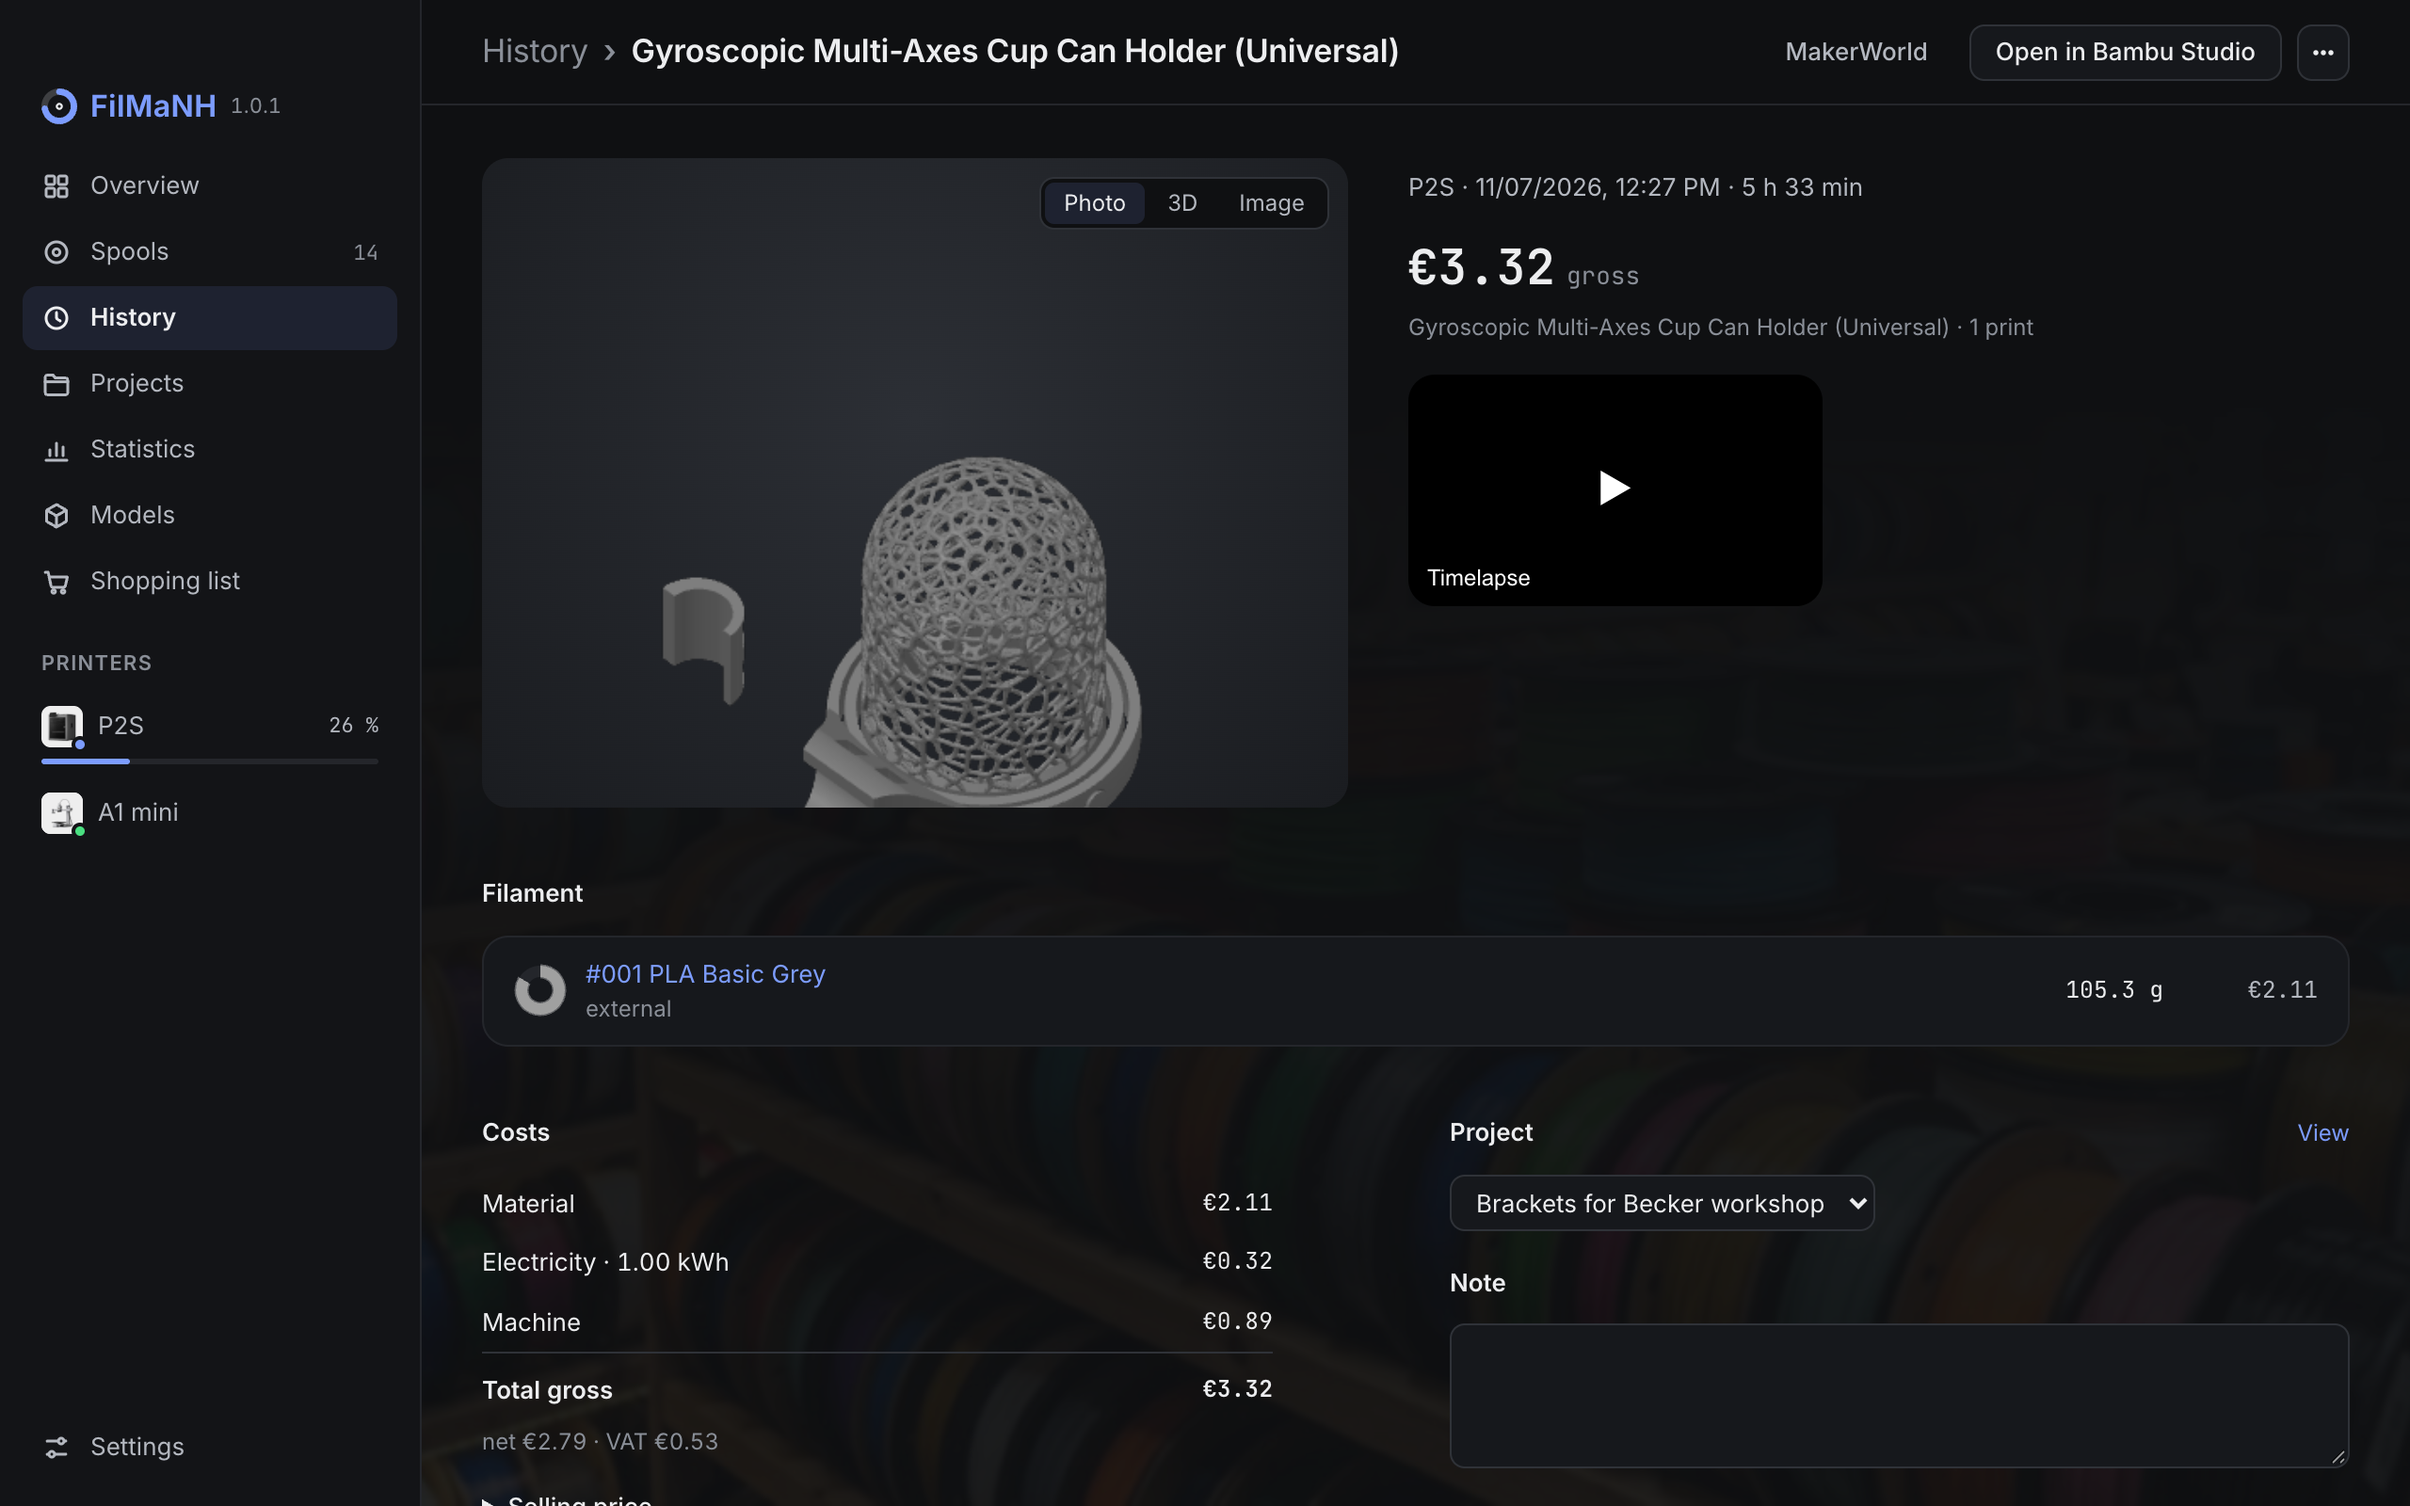
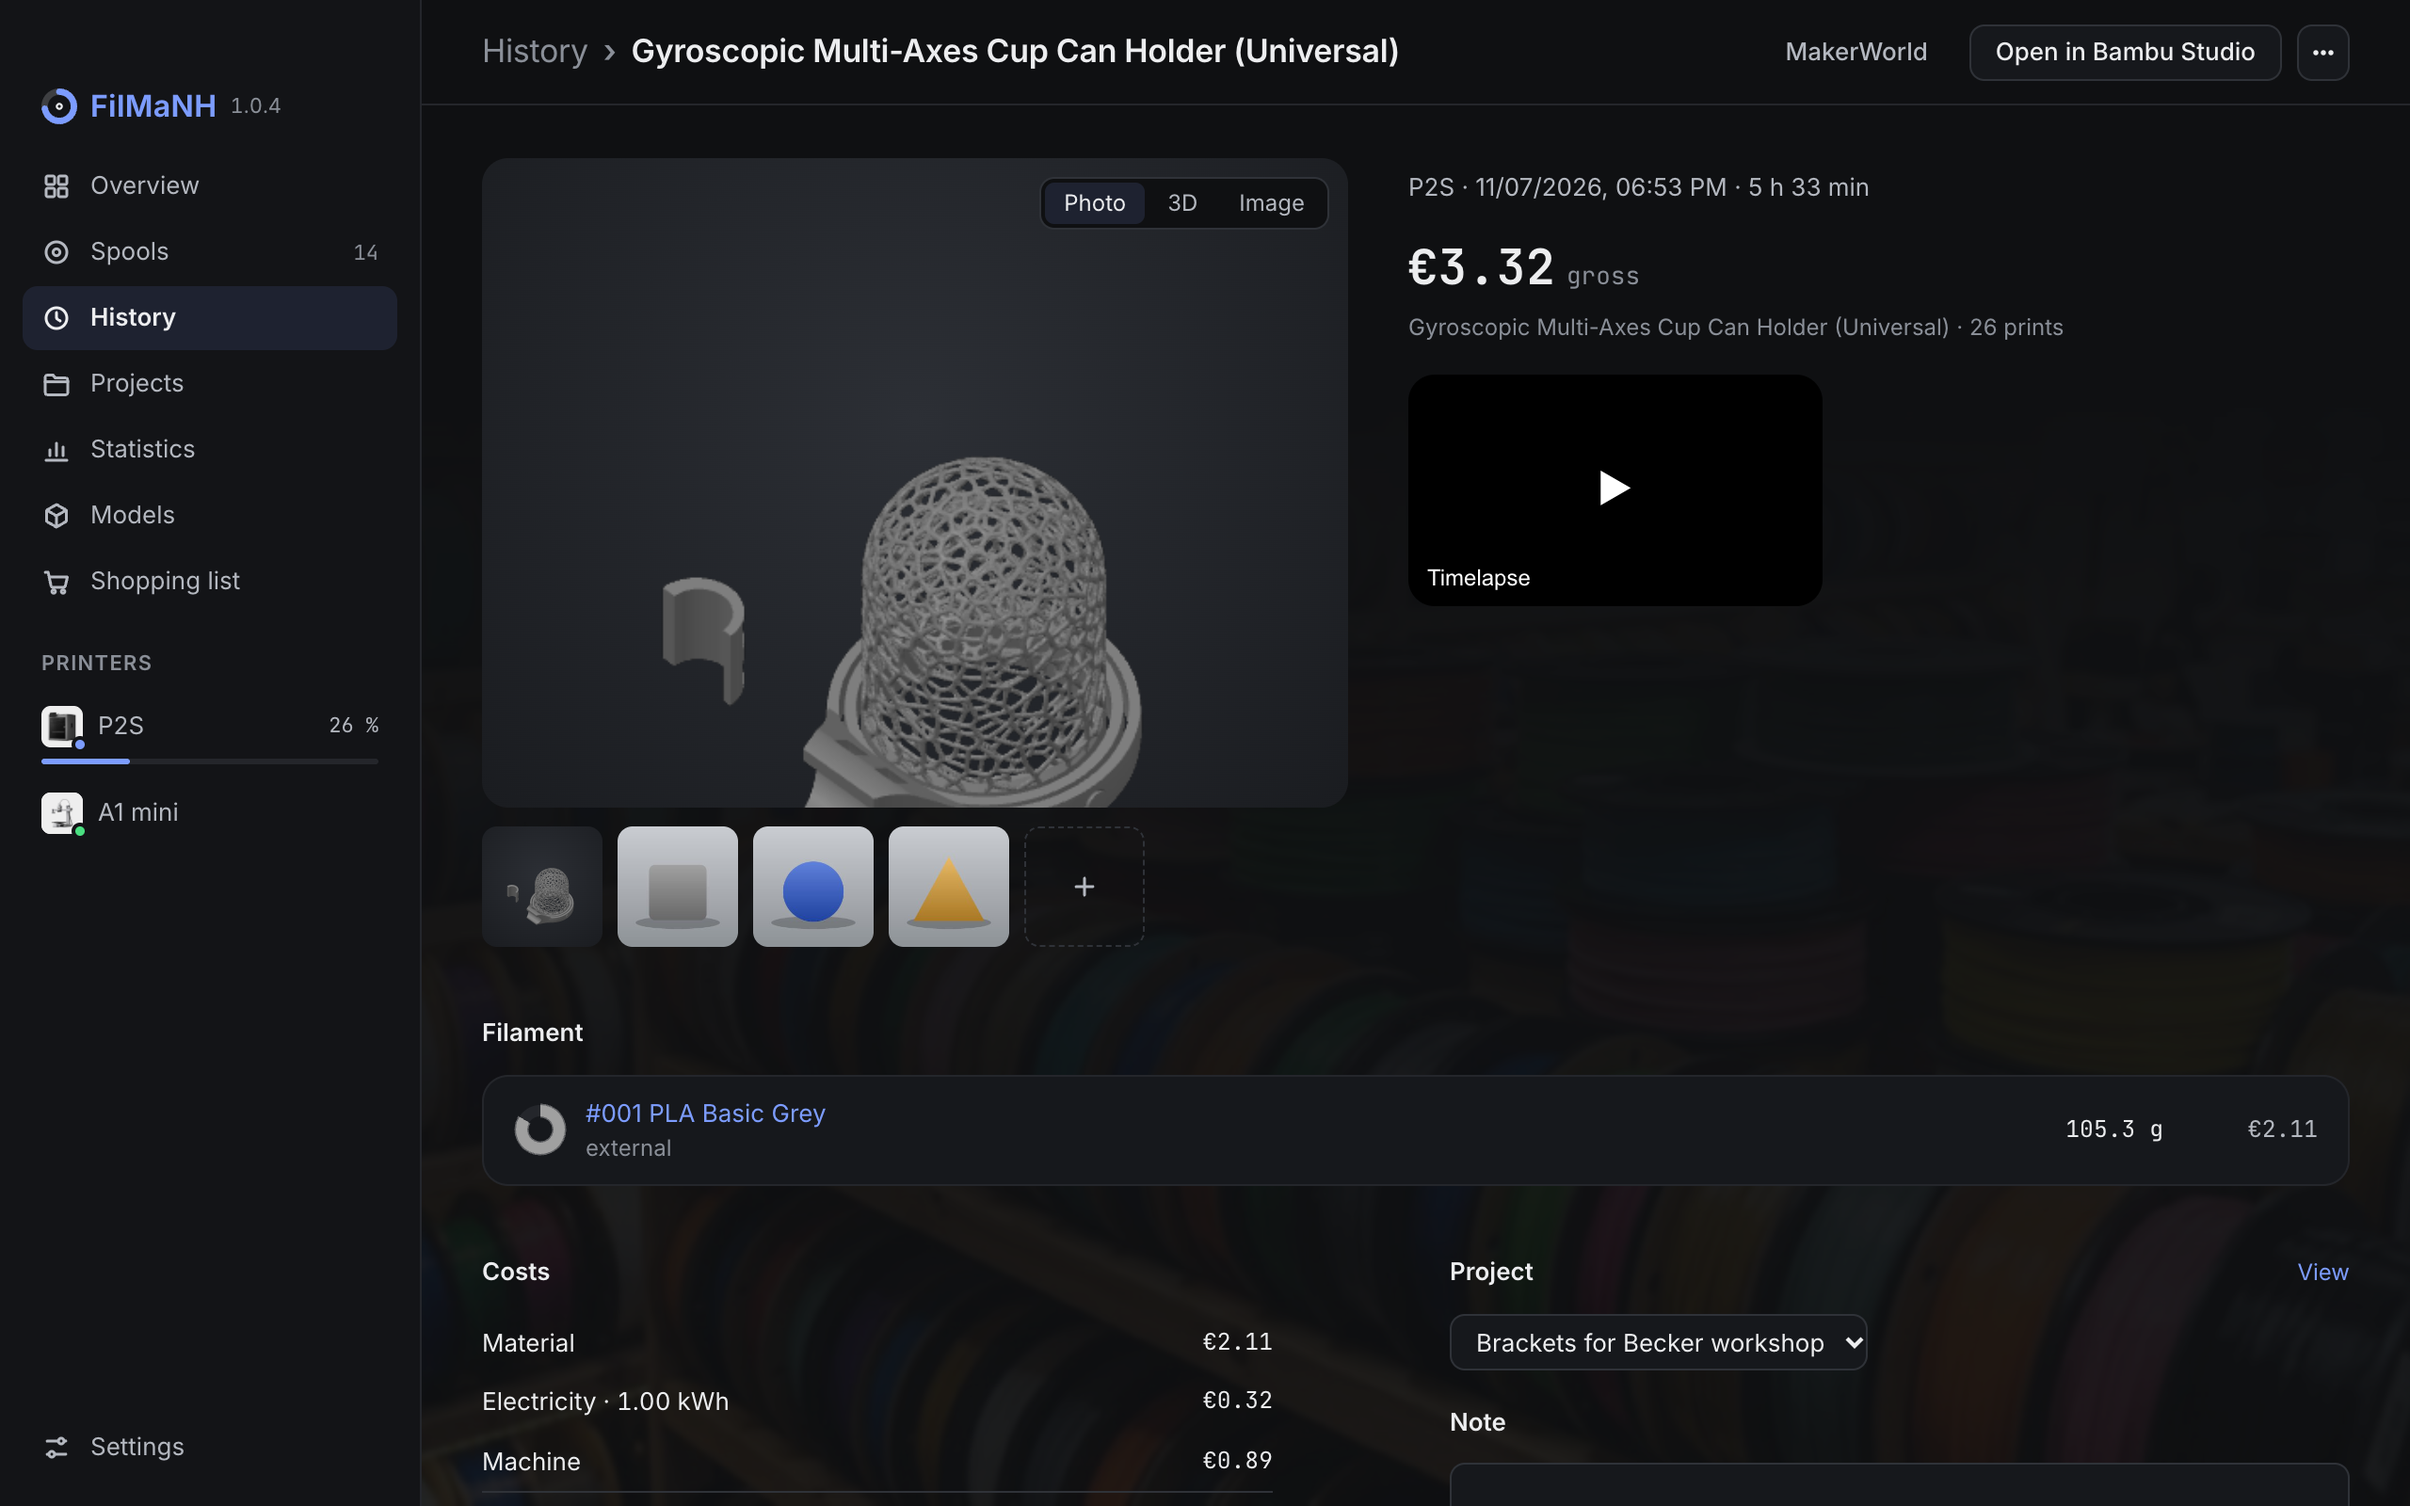
Handbuch für Version 1.0.4

diff --git a/handbook/README.md b/handbook/README.md
@@ -294,7 +294,7 @@ it replaces the preview. Filter by period, result and printer; search; gross or 
 Page through at the bottom, **10**, **25** or **50 per page**.
 
 **Delete:** tick prints (the box above the list selects all on the page), then **Delete** and **Really delete**. The
-entry, print file, photo and timelapse are removed; the usage stays booked on the spools. Running prints cannot be
+entry, print file, photos and timelapse are removed; the usage stays booked on the spools. Running prints cannot be
 deleted.
 
 ### Print details
@@ -302,8 +302,11 @@ deleted.
 ![Print](images/15-druck.png)
 
 - **Photo:** the last frame of the timelapse, if “Timelapse” was switched on when sending the print. Without a
-  timelapse, the last frame of the camera recording, if the printer records during the print (e.g. P2S). If there
-  is neither, you can add your own photo. **3D** (in the spools’ colours) and **Image** show the print file.
+  timelapse, the last frame of the camera recording, if the printer records during the print (e.g. P2S). **3D** (in
+  the spools’ colours) and **Image** show the print file.
+- **Own photos:** below it, as many as you like – with **+** or by dragging images into the window. Without a frame
+  from the timelapse or camera, the first one is shown large. A click opens the large view: **←** **→** to browse,
+  **Esc** closes, **Delete** removes the photo.
 - **Play timelapse.** With **Download timelapses** (Settings › Tracking) it is on your computer after the print;
   otherwise it comes from the printer when you play it. **Save …** keeps a copy; on a Mac an AVI becomes a `.mov`
   that QuickTime plays. If the timelapse was off during the print, this is shown here.
@@ -313,7 +316,7 @@ deleted.
 - **Open in Bambu Studio** opens the kept print file. If the model comes from MakerWorld, a link leads there.
 - **Project:** assign the print to a [project](#9-projects) or create one with **New project …**. **Selling price**
   (expand) calculates the price for this print.
-- **…** menu: Replace photo, **Mark as waste** (part unusable – counts as a failed print in the statistics), Undo
+- **…** menu: **Mark as waste** (part unusable – counts as a failed print in the statistics), Undo
   deduction and, as long as nothing is deducted, **Find print file again**.
 - FilMaNH checks every print file against the print: layer count and the filaments the printer actually uses. An
   older file with the same name is not used.
@@ -343,10 +346,12 @@ one. Prints are added with **Add prints** or in the print under **Project**.
 - **Selling price:** the print costs (material, electricity, machine) plus **Labour** at the hourly rate from
   Settings › Costs, on top of that the **Failed-print surcharge** and then the **Markup** – net, gross and per
   **piece**. The markup applies per project; left empty, the default from the settings applies.
+- **Photos:** the project’s own photos and those of its prints, with a link to the print. **Add photo …** or drag
+  images into the window; a click opens the large view.
 - **CSV** exports the prints, **Print …** an overview as an A4 page with total and selling price (also as PDF in the
   print dialog).
-- **Close** marks the project as closed, **Reopen** undoes that. **Delete project** deletes only the project; the
-  prints stay.
+- **Close** marks the project as closed, **Reopen** undoes that. **Delete project** deletes only the project and its
+  photos; the prints stay.
 
 ## 10. Models
 
@@ -456,7 +461,7 @@ with a QR code to download the Android app. **Hide** removes the hint.
 What the apps can do is described in the handbooks for [iPhone](iphone.md) and [Android](android.md).
 
 **Data:** daily backup (the last 14), export and import of all data, print history as CSV, data folder. Backup and export contain the database: spools, bookings, prints and settings – not
-photos, print files, 3D views, timelapses and source files. Those are in the data folder (`drucke`, `modelle`); copy
+photos, print files, 3D views, timelapses and source files. Those are in the data folder (`drucke`, `fotos`, `modelle`); copy
 it along when moving to another computer. **Import from Spoolman** reads spools from a Spoolman server or a Spoolman
 export file.
 
@@ -544,7 +549,7 @@ deducts it – even if the printer has been switched off in the meantime.
 
 **How do I get a photo of the finished part?** Switch on the timelapse in Bambu Studio when sending the print – it
 is set for each print (**Print plate › Timelapse**).
-If the printer records with its camera, you get the photo even without a timelapse. Otherwise add your own photo in
+If the printer records with its camera, you get the photo even without a timelapse. Otherwise add your own photos in
 the print details.
 
 **Something doesn’t work.** On GitHub, fill in the form **Fehler melden / Report a bug** under

diff --git a/handbuch/README.md b/handbuch/README.md
@@ -294,7 +294,7 @@ statt der Vorschau. Filter nach Zeitraum, Ergebnis und Drucker, Suche, Brutto od
 Liste. Unten blättern, wahlweise **10**, **25** oder **50 je Seite**.
 
 **Löschen:** Drucke anhaken (das Kästchen über der Liste wählt alle der Seite), dann **Löschen** und **Wirklich
-löschen**. Eintrag, Druckdatei, Foto und Zeitraffer verschwinden; der Verbrauch bleibt auf den Spulen gebucht.
+löschen**. Eintrag, Druckdatei, Fotos und Zeitraffer verschwinden; der Verbrauch bleibt auf den Spulen gebucht.
 Laufende Drucke lassen sich nicht löschen.
 
 ### Druck im Detail
@@ -303,8 +303,10 @@ Laufende Drucke lassen sich nicht löschen.
 
 - **Foto:** das letzte Bild des Zeitraffers, wenn beim Senden des Drucks „Zeitraffer“ eingeschaltet war. Ohne
   Zeitraffer das letzte Bild der Kameraaufzeichnung, falls der Drucker während des Drucks aufzeichnet (z.B. P2S).
-  Gibt es beides nicht, kannst du ein eigenes Foto hinzufügen. **3D** (in den Farben der Spulen) und **Bild** zeigen
-  die Druckdatei.
+  **3D** (in den Farben der Spulen) und **Bild** zeigen die Druckdatei.
+- **Eigene Fotos:** darunter beliebig viele – mit **+** oder indem du Bilder ins Fenster ziehst. Ohne Bild aus
+  Zeitraffer oder Kamera steht das erste groß. Ein Klick öffnet die große Ansicht: **←** **→** blättern, **Esc**
+  schließt, **Löschen** entfernt das Foto.
 - **Zeitraffer** abspielen. Mit **Zeitraffer herunterladen** (Einstellungen › Erfassung) liegt er nach dem Druck auf
   dem Rechner, sonst kommt er beim Abspielen vom Drucker. **Speichern …** sichert ihn; auf dem Mac wird ein AVI dabei
   zu einer `.mov`, die QuickTime abspielt. War der Zeitraffer beim Drucken aus, steht das hier.
@@ -315,7 +317,7 @@ Laufende Drucke lassen sich nicht löschen.
   dorthin.
 - **Projekt:** den Druck einem [Projekt](#9-projekte) zuordnen oder mit **Neues Projekt …** eines anlegen.
   **Verkaufspreis** (aufklappen) rechnet den Preis für diesen Druck.
-- Menü **…**: Foto ersetzen, **Als Ausschuss markieren** (Teil unbrauchbar – zählt in der Auswertung als Fehldruck),
+- Menü **…**: **Als Ausschuss markieren** (Teil unbrauchbar – zählt in der Auswertung als Fehldruck),
   Buchung zurücknehmen und, solange nicht gebucht ist, **Druckdatei neu suchen**.
 - Jede Druckdatei prüft FilMaNH am Inhalt: Schichtzahl und die Filamente, die der Drucker tatsächlich nutzt. Eine
   ältere Datei gleichen Namens wird so nicht verwendet.
@@ -345,10 +347,12 @@ Ein Projekt fasst Drucke für einen Auftrag oder Kunden zusammen, mit Summen fü
 - **Verkaufspreis:** die Druckkosten (Material, Strom, Maschine) plus **Arbeitszeit** zum Stundensatz aus
   Einstellungen › Kosten, darauf der **Zuschlag für Fehldrucke** und darauf der **Aufschlag** – netto, brutto und je
   **Stück**. Der Aufschlag gilt je Projekt; leer bleibt die Vorgabe aus den Einstellungen.
+- **Fotos:** eigene Fotos des Projekts und die seiner Drucke, mit Link zum Druck. **Foto hinzufügen …** oder Bilder
+  ins Fenster ziehen; ein Klick öffnet die große Ansicht.
 - **CSV** exportiert die Drucke, **Drucken …** eine Übersicht als A4-Seite mit Summe und Verkaufspreis (im Druckdialog
   auch als PDF).
 - **Abschließen** markiert das Projekt als abgeschlossen, **Wieder öffnen** hebt das auf. **Projekt löschen** löscht
-  nur das Projekt; die Drucke bleiben.
+  nur das Projekt und seine Fotos; die Drucke bleiben.
 
 ## 10. Modelle
 
@@ -460,7 +464,7 @@ Was die Apps können, steht in den Handbüchern für [iPhone](iphone.md) und [An
 
 **Daten:** tägliche Sicherung (die letzten 14 Stände), Export und Import aller Daten, Druckverlauf als CSV, Datenordner. Sicherung und Export enthalten die Datenbank: Spulen, Buchungen,
 Drucke und Einstellungen – nicht Fotos, Druckdateien, 3D-Ansichten, Zeitraffer und Quelldateien. Die liegen im
-Datenordner (`drucke`, `modelle`); wer umzieht, kopiert ihn mit. **Aus Spoolman übernehmen** liest Spulen aus einem
+Datenordner (`drucke`, `fotos`, `modelle`); wer umzieht, kopiert ihn mit. **Aus Spoolman übernehmen** liest Spulen aus einem
 Spoolman-Server oder einer Spoolman-Exportdatei.
 
 ![Daten](bilder/25-einst-daten.png)
@@ -549,7 +553,7 @@ Start nach und bucht ihn – auch wenn der Drucker inzwischen aus ist.
 
 **Wie bekomme ich ein Foto vom fertigen Teil?** Beim Senden des Drucks in Bambu Studio den Zeitraffer einschalten –
 das gilt für jeden Druck einzeln (**Druckplatte drucken › Zeitraffer**).
-Zeichnet der Drucker mit der Kamera auf, kommt das Foto auch ohne Zeitraffer. Sonst ein eigenes Foto im Druck
+Zeichnet der Drucker mit der Kamera auf, kommt das Foto auch ohne Zeitraffer. Sonst eigene Fotos im Druck
 hinzufügen.
 
 **Etwas funktioniert nicht.** Auf GitHub unter [Issues](https://github.com/NikolausH76/FilMaNH/issues/new/choose) das
